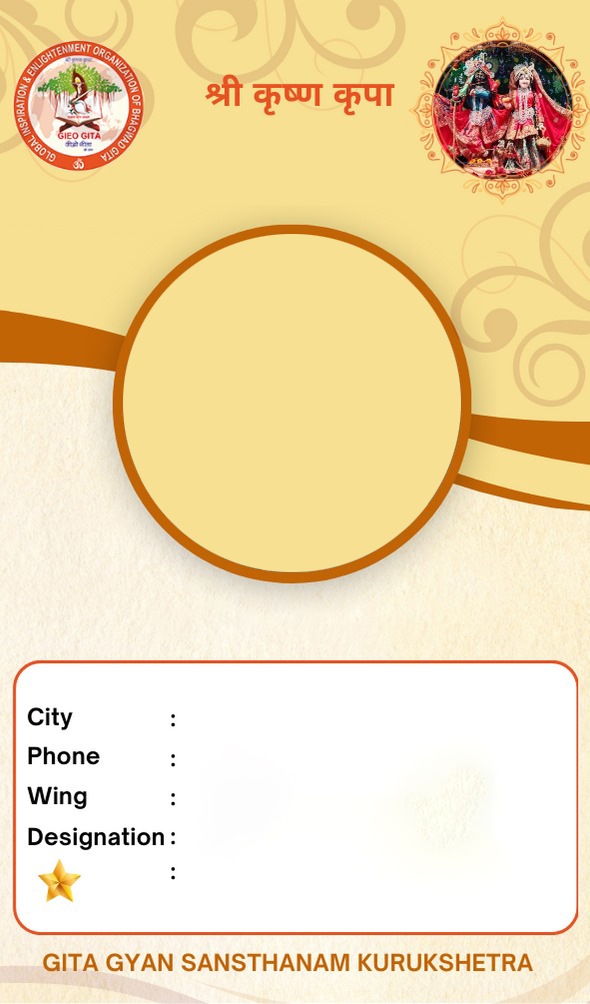
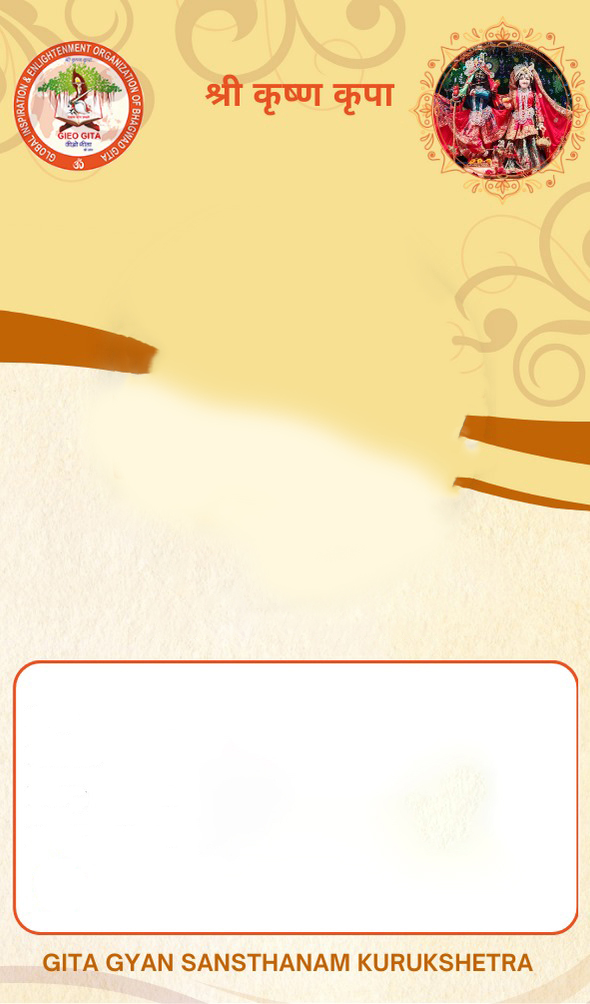
hello world

Changed region(s): [[0.1525, 0.2779, 0.8237, 0.6175], [0.0305, 0.6793, 0.2746, 0.8954], [0.2441, 0.2161, 0.7017, 0.3088]]

diff --git a/css/icard.css b/css/icard.css
@@ -1,10 +1,5 @@
- body{
-    min-width: 100%;
-    min-height: 100vh;
-    display: flex;
-    align-items: center;
-    justify-content: center;
- }
+
+
 #studentIDCard{
     /* background-color: rgb(212, 255, 245); */
     /* border: 2px solid red; */
@@ -15,16 +10,35 @@
     background-size: contain;
     background-repeat: no-repeat;
     box-sizing: border-box;
-    
+    position: relative;
+    position: static;
+}
+.i-card{
+    position: relative;
+    padding-top: 100px;
 }
 .i-card-img{
     width: 190px;
+    position: relative;
     margin: auto;
-    margin-top: 39%;
+    margin-top: 10px;
     border-radius: 50%;
     overflow: hidden;
-    border: 5px solid saddlebrown;
+    border: 7px solid #c16405;
 }
 .i-card-img img{
     width: 100%;
+}
+.i-card-name{
+    font-size: 20px;
+    font-weight: 700;
+    text-align: center;
+    margin: auto;
+    margin-top: 10px;
+}
+.i-card-table{
+    margin-left: 20px;
+    margin-top: 23px;
+    font-weight:500;
+    font-size: 17px;
 }

diff --git a/card2.php b/card2.php
@@ -46,12 +46,79 @@ if ($star == 'null')
 ?>
 
 <link rel="stylesheet" href="css/icard.css">
+<link href="https://cdn.jsdelivr.net/npm/bootstrap@5.3.3/dist/css/bootstrap.min.css" rel="stylesheet"
+    integrity="sha384-QWTKZyjpPEjISv5WaRU9OFeRpok6YctnYmDr5pNlyT2bRjXh0JMhjY6hW+ALEwIH" crossorigin="anonymous">
+
 
 <div id="studentIDCard">
     <div class="i-card">
         <div class="i-card-img">
             <img src="<?php echo $profile ?>" alt="img" />
         </div>
-
+        <p class="i-card-name"><?php echo $name ?></p>
+        <table class="i-card-table">
+            <thead>
+                <tr>
+                    <td>City</td>
+                    <td>:</td>
+                    <td><?php echo $city ?></td>
+                </tr>
+            </thead>
+            <tbody>
+                <tr>
+                    <td>Phone</td>
+                    <td>:</td>
+                    <td><?php echo $phone ?></td>
+                </tr>
+                <tr>
+                    <td>Wing</td>
+                    <td>:</td>
+                    <td><?php echo $wing ?></td>
+                </tr>
+                <tr>
+                    <td>Designation</td>
+                    <td>:</td>
+                    <td><?php echo $designation ?></td>
+                </tr>
+                <tr>
+                    <td><?php echo $starCount ?></td>
+                    <td>:</td>
+                    <td><?php echo $star ?></td>
+                </tr>
+            </tbody>
+        </table>
     </div>
 </div>
+
+<!-- Button to download the ID card image -->
+<button id="downloadButton">Download Student ID Card</button>
+<script src="https://cdnjs.cloudflare.com/ajax/libs/html2canvas/1.4.1/html2canvas.min.js"
+    integrity="sha512-BNaRQnYJYiPSqHHDb58B0yaPfCu+Wgds8Gp/gU33kqBtgNS4tSPHuGibyoeqMV/TJlSKda6FXzoEyYGjTe+vXA=="
+    crossorigin="anonymous" referrerpolicy="no-referrer"></script>
+
+<script>
+    // Function to convert HTML element to image
+    function htmlToImage(element) {
+        return new Promise(resolve => {
+            html2canvas(element, { scale: 3 }).then(canvas => {
+                resolve(canvas.toDataURL('image/png'));
+            });
+        });
+    }
+
+    // Function to trigger download of the image
+    function downloadImage(dataUrl) {
+        const link = document.createElement('a');
+        link.href = dataUrl;
+        link.download = 'student_id_card.png';
+        link.click();
+    }
+
+    // Event listener for download button click
+    document.getElementById('downloadButton').addEventListener('click', async () => {
+        const studentIDCard = document.getElementById('studentIDCard');
+        const dataUrl = await htmlToImage(studentIDCard);
+        downloadImage(dataUrl);
+    });
+
+</script>

diff --git a/member.php b/member.php
@@ -99,6 +99,7 @@ if ($star == 'null')
     <style>
         body {
             background: #f7e092;
+            overflow-x: hidden;
         }
 
         #card td {
@@ -184,6 +185,7 @@ if ($star == 'null')
             flex: 1 0 200px !important;
         }
     </style>
+    <link rel="stylesheet" href="css/icard.css">
 </head>
 
 <body>
@@ -328,6 +330,47 @@ if ($star == 'null')
                         </tbody>
                     </table>
                 </div>
+            </div>
+        </div>
+    </div>
+    <div style="transform: translatex(-30%)" class="container position-absolute">
+        <div id="studentIDCard">
+            <div class="i-card">
+                <div class="i-card-img">
+                    <img src="imgs/<?php echo $row['pic'] ?>" alt="img" />
+                </div>
+                <p class="i-card-name"><?php echo $name ?></p>
+                <table class="i-card-table">
+                    <thead>
+                        <tr>
+                            <td>City</td>
+                            <td>:</td>
+                            <td><?php echo $tehsil ?></td>
+                        </tr>
+                    </thead>
+                    <tbody>
+                        <tr>
+                            <td>Phone</td>
+                            <td>:</td>
+                            <td><?php echo $phone ?></td>
+                        </tr>
+                        <tr>
+                            <td>Wing</td>
+                            <td>:</td>
+                            <td><?php echo $wing ?></td>
+                        </tr>
+                        <tr>
+                            <td>Designation</td>
+                            <td>:</td>
+                            <td><?php echo $designation ?></td>
+                        </tr>
+                        <tr>
+                            <td><?php echo $icon ?></td>
+                            <td>:</td>
+                            <td><?php echo $star ?></td>
+                        </tr>
+                    </tbody>
+                </table>
             </div>
         </div>
     </div>
@@ -480,8 +523,7 @@ if ($star == 'null')
                         $result = mysqli_query($conn, $sql);
                         $row = mysqli_fetch_array($result);
                         echo $row['pic'];
-                        ?>"
-                            alt="<?php echo $row['pic']; ?>">
+                        ?>" alt="<?php echo $row['pic']; ?>">
                     </div>
                 </div>
                 <div class="col-md d-flex flex-column justify-content-center align-items-center">
